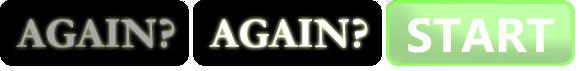
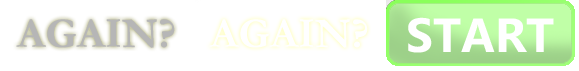
fix #18

diff --git a/js/States.js b/js/States.js
@@ -376,8 +376,8 @@ States.LoseState.prototype = {
 
 	create: function() {
 		this.add.sprite(0, 0, 'background');
-		this.button = this.add.button(703.5, 464.5, 'button', this.startGame, this, 1, 1, 0);
-		this.add.text(0, 960, "Final Score: " + score, { font: "40px Arial", fill: "#ffffff", align: "left" })
+		this.button = this.add.button(703.5, 875, 'button', this.startGame, this, 1, 1, 0);
+		this.add.text(550, 250, "Final Score: " + score, { font: "80px Arial", fill: "#ffffff", align: "left" })
 	},
 
 	startGame: function() {
